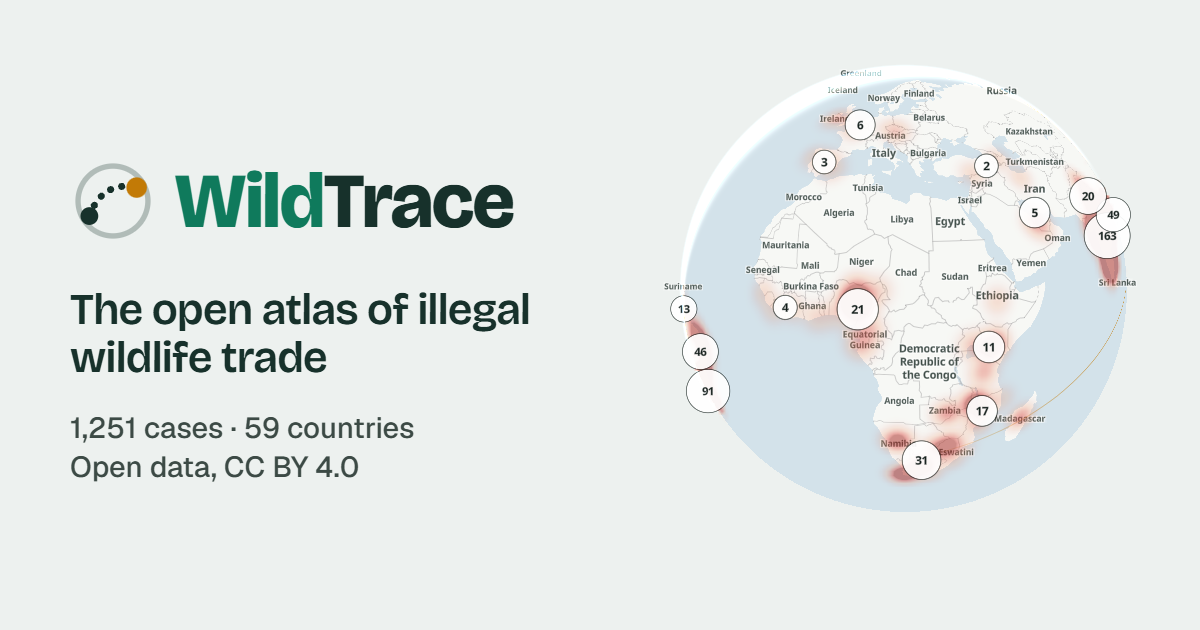
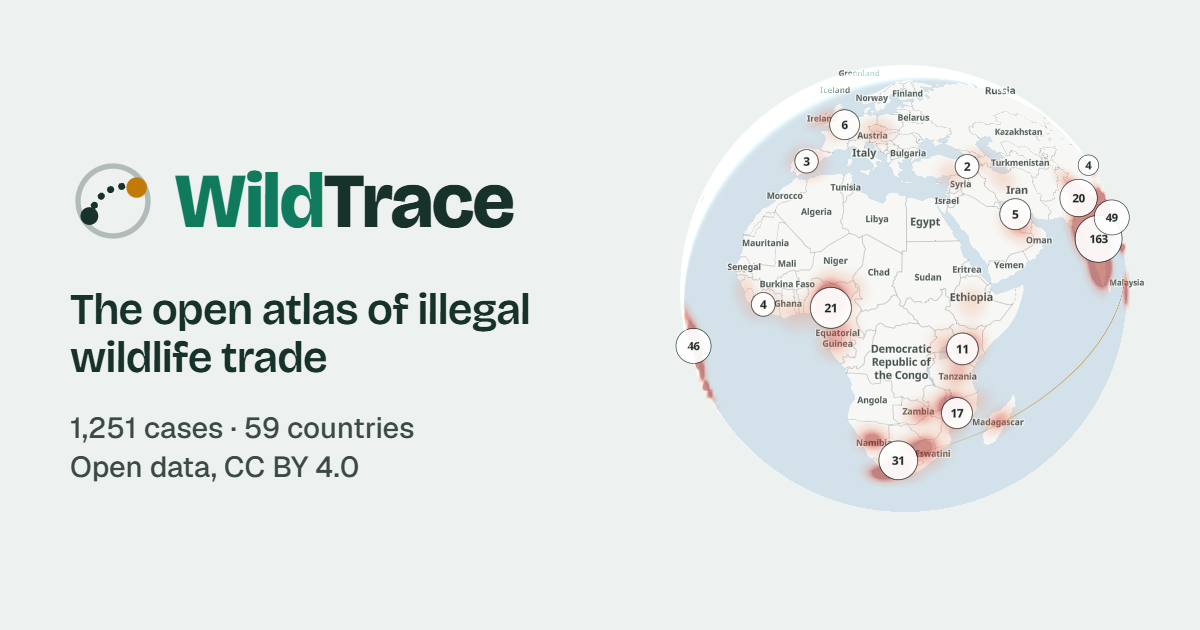
Redraw the share card from the live site on every refresh
scripts/make_og.py screenshots the Atlas with the current case and country
counts; the weekly workflow runs it and commits the result.

Changed region(s): [[0.6167, 0.0905, 0.9558, 0.7841], [0.555, 0.4524, 0.6167, 0.6635]]

diff --git a/scripts/make_og.py b/scripts/make_og.py
@@ -1,0 +1,96 @@
+"""Render web/og.png, the card shown when a WildTrace link is shared.
+
+The card is a screenshot of the real Atlas with the panels hidden and a title
+block drawn over it, so it always carries the current case and country counts
+and never drifts from the site. Run it after a build:
+
+    python scripts/make_og.py            # writes web/og.png
+
+Needs Playwright with Chromium (``pip install playwright && playwright install
+chromium``). If either is missing, the script says so and leaves the existing
+card in place, so a build without a browser still succeeds.
+"""
+from __future__ import annotations
+
+import http.server
+import json
+import os
+import socketserver
+import sys
+import threading
+from pathlib import Path
+
+WEB = Path(__file__).resolve().parents[1] / "web"
+OUT = WEB / "og.png"
+PORT = 8799
+
+
+def counts() -> tuple[str, str]:
+    """Cases and countries as they appear in the published data."""
+    cases = json.loads((WEB / "data" / "cases.json").read_text(encoding="utf-8"))
+    cases = cases if isinstance(cases, list) else cases.get("cases", [])
+    countries = {c["place"]["country"] for c in cases if c.get("place") and c["place"].get("country")}
+    return f"{len(cases):,}", f"{len(countries)}"
+
+
+# The title block, drawn over the globe. Kept large: a shared card is about
+# 500 px wide in a feed, so small print is unreadable where it matters.
+OVERLAY = """({ cases, countries }) => {
+  document.querySelectorAll('header, .topbar, #pulse, .pulse, .timeline, #timeline, .legend, .mapctl,'
+    + ' .maplibregl-ctrl-bottom-right, .maplibregl-ctrl-bottom-left, .toast, .dock').forEach((e) => (e.style.display = 'none'));
+  document.getElementById('globe').style.transform = 'translateX(120px)';
+  const d = document.createElement('div');
+  d.style.cssText = 'position:fixed;left:70px;top:0;bottom:0;display:flex;flex-direction:column;justify-content:center;'
+    + 'gap:26px;z-index:99;width:560px;font-family:"Bricolage Grotesque",sans-serif;color:#17312b';
+  d.innerHTML = `<div style="display:flex;align-items:center;gap:18px">
+      <svg width="86" height="86" style="color:#17312b"><use href="#logo"/></svg>
+      <div style="font-size:78px;font-weight:800;letter-spacing:-.025em"><span style="color:#0f7a5c">Wild</span>Trace</div></div>
+    <div style="font-size:44px;font-weight:600;line-height:1.1;letter-spacing:-.015em">The open atlas of illegal wildlife trade</div>
+    <div style="font-family:Geist,sans-serif;font-size:29px;font-weight:500;color:#3c4a45;line-height:1.35">
+      ${cases} cases &middot; ${countries} countries<br>Open data, CC BY 4.0</div>`;
+  document.body.append(d);
+}"""
+
+
+class Handler(http.server.SimpleHTTPRequestHandler):
+    def __init__(self, *a, **kw):
+        super().__init__(*a, directory=str(WEB), **kw)
+
+    def log_message(self, *a):  # keep the build log readable
+        pass
+
+
+def main() -> int:
+    try:
+        from playwright.sync_api import sync_playwright
+    except ImportError:
+        print("make_og: playwright is not installed; keeping the existing card")
+        return 0
+    n_cases, n_countries = counts()
+    socketserver.TCPServer.allow_reuse_address = True
+    with socketserver.TCPServer(("127.0.0.1", PORT), Handler) as srv:
+        threading.Thread(target=srv.serve_forever, daemon=True).start()
+        try:
+            with sync_playwright() as p:
+                # WILDTRACE_CHROMIUM points at a Chromium if Playwright's own copy is elsewhere.
+                exe = os.environ.get("WILDTRACE_CHROMIUM") or None
+                b = p.chromium.launch(executable_path=exe,
+                                      args=["--use-gl=angle", "--use-angle=swiftshader", "--enable-unsafe-swiftshader"])
+                pg = b.new_page(viewport={"width": 1200, "height": 630})
+                pg.goto(f"http://127.0.0.1:{PORT}/", wait_until="networkidle", timeout=60000)
+                pg.wait_for_timeout(4000)      # let the globe draw and the markers settle
+                pg.evaluate(OVERLAY, {"cases": n_cases, "countries": n_countries})
+                pg.wait_for_timeout(1500)
+                pg.screenshot(path=str(OUT))
+                b.close()
+        except Exception as e:  # a missing browser binary, or a render failure
+            print(f"make_og: could not render the card ({e}); keeping the existing one")
+            return 0
+        finally:
+            srv.shutdown()
+    print(f"make_og: {OUT} — {n_cases} cases, {n_countries} countries")
+    return 0
+
+
+if __name__ == "__main__":
+    sys.exit(main())

diff --git a/tests/test_pipeline.py b/tests/test_pipeline.py
@@ -200,3 +200,14 @@ def test_official_publisher_names():
     from wildtrace.sources_tier import tier
     assert tier("PIB") == "official" and tier("Polícia Federal") == "official"
     assert tier("Agence Ivoirienne de Presse (AIP)") == "media"  # a state news agency is not an enforcement body
+
+
+def test_og_card_counts_are_one_argument():
+    """The overlay takes a single object: two positional parameters silently
+    rendered "1,251,59 cases - undefined countries" on the shared card."""
+    import re
+    from pathlib import Path
+    src = (Path(__file__).resolve().parents[1] / "scripts" / "make_og.py").read_text(encoding="utf-8")
+    assert "({ cases, countries }) =>" in src
+    assert re.search(r"pg\.evaluate\(OVERLAY, \{", src)
+    assert "${cases} cases" in src and "${countries} countries" in src

diff --git a/CHANGELOG.md b/CHANGELOG.md
@@ -17,7 +17,8 @@ First release archived on Zenodo ([10.5281/zenodo.22902819](https://doi.org/10.5
 - **Open data.** `cases.csv` per-case export, CC BY 4.0, with a citation line and DOI.
 - **Table** and **About** panels; focus moves into a case when it opens.
 - **Report a correction** on every case, opening a pre-filled issue.
-- Social preview image, self-hosted fonts, `CITATION.cff` and `.zenodo.json`.
+- Social preview image, redrawn from the live site by `scripts/make_og.py` on every weekly
+  refresh so its counts stay current; self-hosted fonts; `CITATION.cff` and `.zenodo.json`.
 
 ### Changed
 - The map shows a density glow, pales single-report cases, rings approximate places, scales

diff --git a/README.md b/README.md
@@ -142,6 +142,7 @@ pip install -e ".[dev,video]"
 wildtrace collect --official --gnews --countries ALL   # official releases + global news
 wildtrace collect --history 12 --no-gdelt              # one-off: backfill 12 months
 wildtrace build                                        # cases, graph, CSV, site data (privacy gate)
+python scripts/make_og.py                              # redraw the share card with the new counts
 python -m http.server -d web 8000                      # open http://localhost:8000
 ```
 
